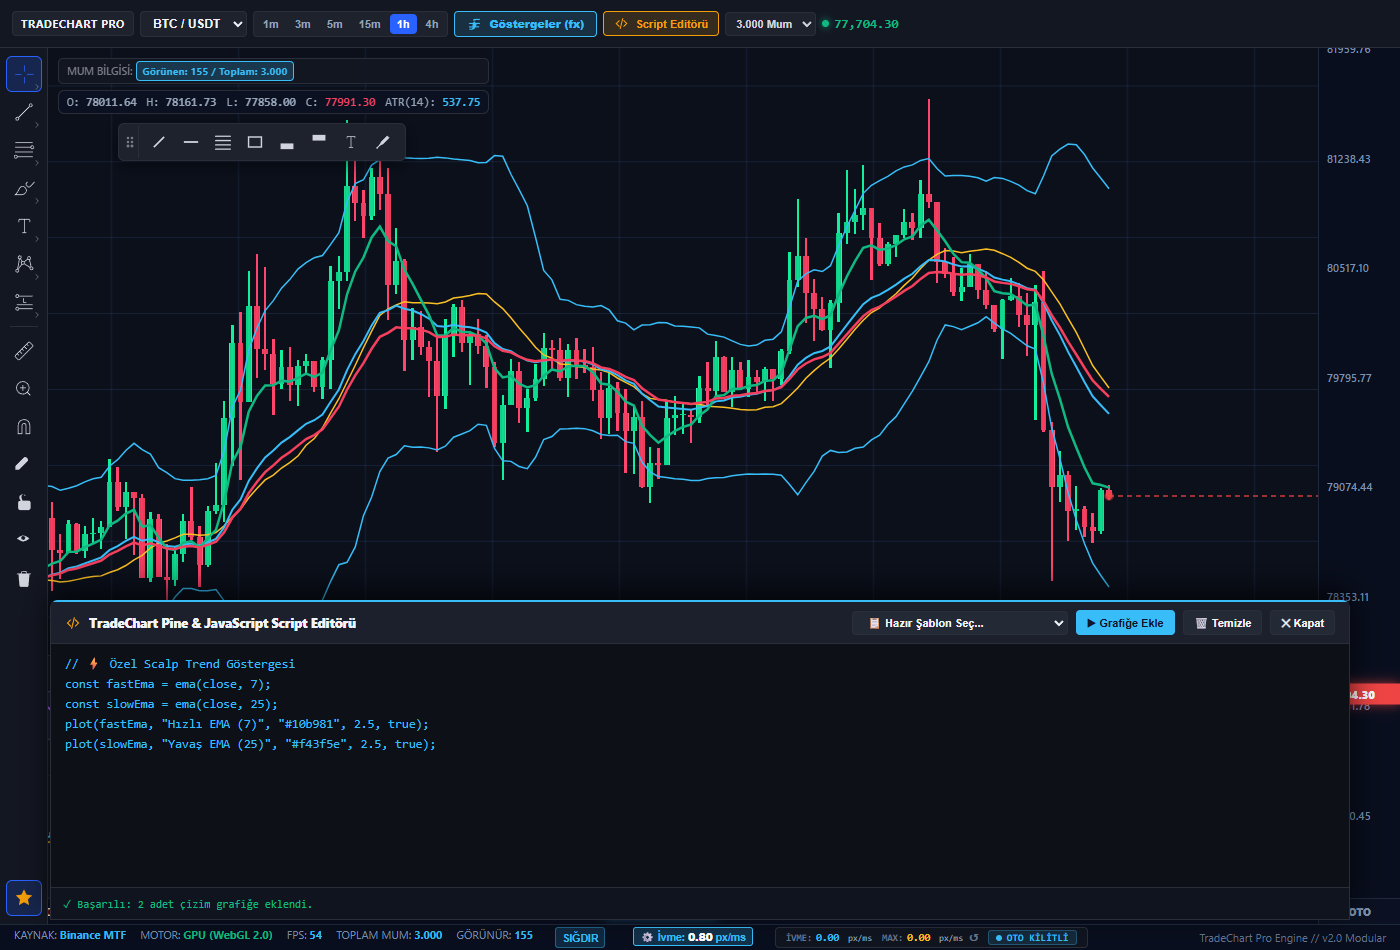
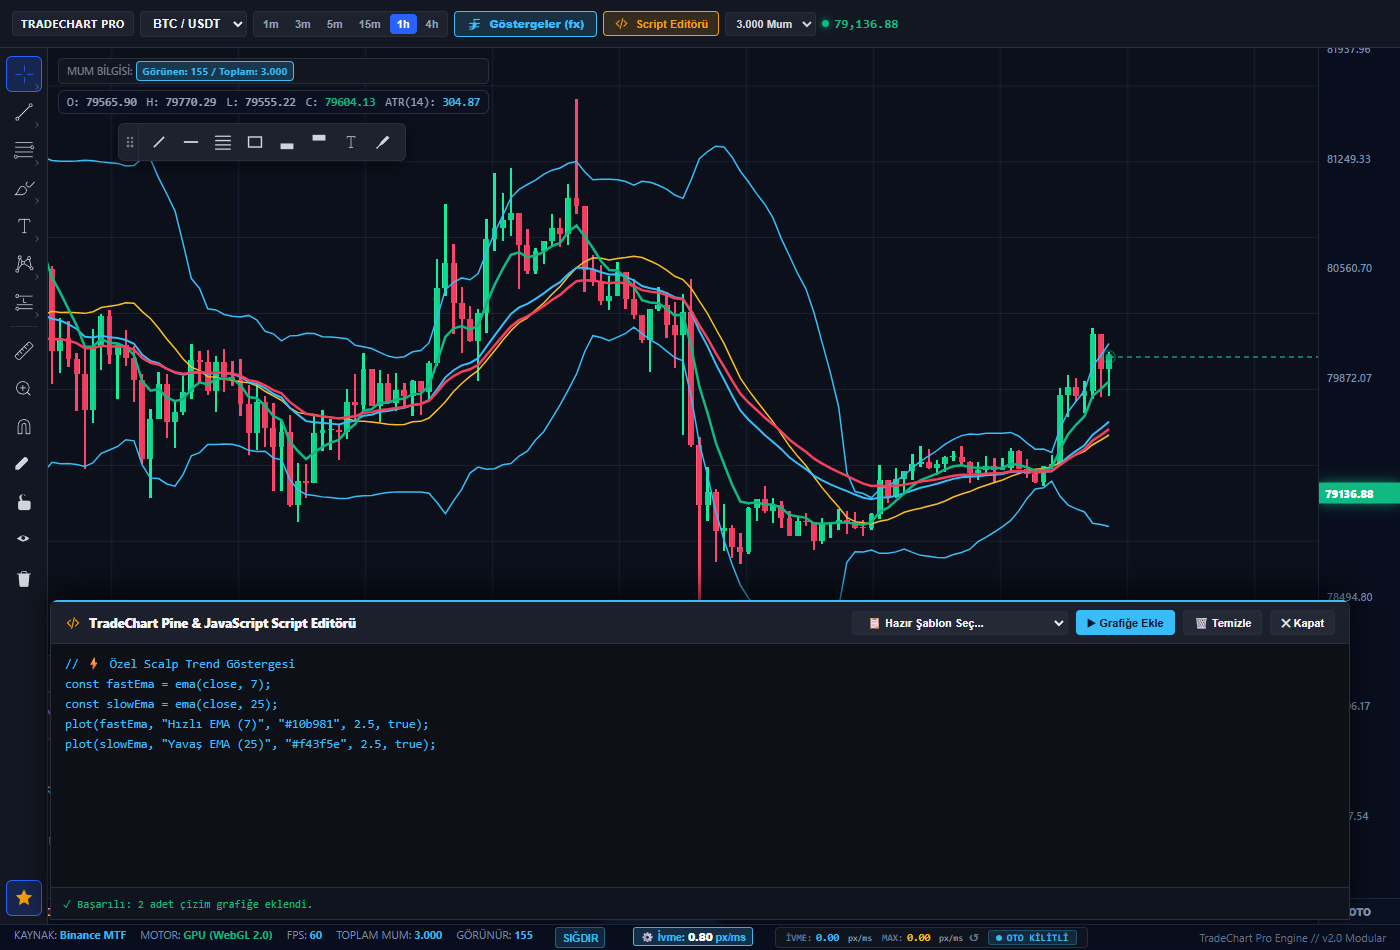
fix: Allow real-time dynamic vertical unlock during continuous mouse drag when velocity falls below threshold

diff --git a/scripts/update_dynamic_axis_unlock.js b/scripts/update_dynamic_axis_unlock.js
@@ -1,0 +1,100 @@
+import fs from 'fs';
+
+let content = fs.readFileSync('indikator_sablonu.html', 'utf8');
+
+const targetChunk = `                // 🎯 İVMEYE VE YÖNE GÖRE KUSURSUZ KİLİTLEME:
+                const isFastHorizontalSwipe = (absVx >= velocityThreshold && absVx >= absVy * 1.15);
+
+                if (isFastHorizontalSwipe) {
+                    // ⚡ EŞİK AŞILDI & OTO KİLİT AKTİF
+                    dragAxisLocked = 'horizontal';
+                    isAutoPriceScale = true;
+                    updateOtoButtonState();
+
+                    origPriceOffset = 0;
+                    priceOffset = 0;
+                    chartDragStartY = e.clientY;
+
+                    if (alertBadge) {
+                        alertBadge.className = 'hud-status-badge alert-locked';
+                        alertText.innerText = \`⚡ EŞİK AŞILDI (\${absVx.toFixed(2)} ≥ \${velocityThreshold.toFixed(2)})\`;
+                    }
+                    if (livePillElem) {
+                        livePillElem.innerText = 'OTO KİLİTLENDİ';
+                        livePillElem.className = 'status-pill locked';
+                    }
+                } else if (dragAxisLocked !== 'horizontal' && (Math.abs(e.clientY - chartDragStartY) > 4 && absVy > absVx * 0.85 && absVy > 0.04)) {
+                    dragAxisLocked = 'vertical';
+                    isAutoPriceScale = false;
+                    updateOtoButtonState();
+                    if (alertBadge) {
+                        alertBadge.className = 'hud-status-badge free';
+                        alertText.innerText = 'MANUEL SERBEST';
+                    }
+                    if (livePillElem) {
+                        livePillElem.innerText = 'MANUEL SERBEST';
+                        livePillElem.className = 'status-pill free';
+                    }
+                } else {
+                    if (alertBadge) {
+                        alertBadge.className = 'hud-status-badge free';
+                        alertText.innerText = isAutoPriceScale ? 'OTO KİLİTLİ' : 'MANUEL SERBEST';
+                    }
+                    if (livePillElem) {
+                        livePillElem.innerText = isAutoPriceScale ? 'OTO KİLİTLENDİ' : 'MANUEL SERBEST';
+                        livePillElem.className = isAutoPriceScale ? 'status-pill locked' : 'status-pill free';
+                    }
+                }`;
+
+const replacementChunk = `                // 🎯 İVMEYE VE YÖNE GÖRE DİNAMİK KİLİTLEME VE ÇÖZME (Continuous Gesture Dynamic Axis Lock & Unlock):
+                const isFastHorizontalSwipe = (absVx >= velocityThreshold && absVx >= absVy * 1.15);
+
+                if (isFastHorizontalSwipe) {
+                    // ⚡ EŞİK AŞILDI & OTO KİLİT AKTİF
+                    dragAxisLocked = 'horizontal';
+                    isAutoPriceScale = true;
+                    updateOtoButtonState();
+
+                    origPriceOffset = 0;
+                    priceOffset = 0;
+                    chartDragStartY = e.clientY;
+
+                    if (alertBadge) {
+                        alertBadge.className = 'hud-status-badge alert-locked';
+                        alertText.innerText = \`⚡ EŞİK AŞILDI (\${absVx.toFixed(2)} ≥ \${velocityThreshold.toFixed(2)})\`;
+                    }
+                    if (livePillElem) {
+                        livePillElem.innerText = 'OTO KİLİTLENDİ';
+                        livePillElem.className = 'status-pill locked';
+                    }
+                } else {
+                    // 🔓 HIZ EŞİK ALTINA İNDİĞİNDE:
+                    // Kullanıcı fareyi bırakmadan basılı tutmaya devam etse bile, hız eşiğin altına indiği an
+                    // dikey hareket algılanır algılanmaz kilit anında çözülür ve serbest dikey kaydırmaya izin verilir!
+                    if (alertBadge) {
+                        alertBadge.className = 'hud-status-badge free';
+                    }
+
+                    const isVerticalIntent = Math.abs(e.clientY - chartDragStartY) > 3 || (absVy > 0.03 && absVy > absVx * 0.5);
+
+                    if (isVerticalIntent && isAutoPriceScale) {
+                        // OTO KİLİTTEN MANUEL DİKEY SÜRÜKLEMEYE KESİNTİSİZ GEÇİŞ
+                        isAutoPriceScale = false;
+                        dragAxisLocked = 'vertical';
+                        updateOtoButtonState();
+                        origPriceOffset = priceOffset;
+                        chartDragStartY = e.clientY;
+                    }
+
+                    if (alertText) {
+                        alertText.innerText = isAutoPriceScale ? 'OTO KİLİTLİ' : 'MANUEL SERBEST';
+                    }
+                    if (livePillElem) {
+                        livePillElem.innerText = isAutoPriceScale ? 'OTO KİLİTLENDİ' : 'MANUEL SERBEST';
+                        livePillElem.className = isAutoPriceScale ? 'status-pill locked' : 'status-pill free';
+                    }
+                }`;
+
+content = content.replace(targetChunk, replacementChunk);
+fs.writeFileSync('indikator_sablonu.html', content, 'utf8');
+console.log('Successfully updated dynamic axis unlock in indikator_sablonu.html!');

diff --git a/scripts/test_continuous_drag_unlock.js b/scripts/test_continuous_drag_unlock.js
@@ -1,0 +1,80 @@
+import { chromium } from 'playwright';
+
+async function testContinuousDragUnlock() {
+    console.log('--- Testing Continuous Drag Axis Lock & Real-Time Dynamic Unlock ---');
+    const browser = await chromium.launch({
+        headless: true,
+        args: ['--enable-webgl', '--enable-gpu', '--ignore-gpu-blocklist', '--use-gl=angle']
+    });
+    const page = await browser.newPage({ viewport: { width: 1400, height: 900 } });
+
+    await page.goto('http://localhost:5173');
+    await page.waitForTimeout(2000);
+
+    const canvasBox = await page.locator('#canvas-container').boundingBox();
+    if (!canvasBox) throw new Error('Canvas container not found');
+
+    const startX = canvasBox.x + 800;
+    const startY = canvasBox.y + 400;
+
+    console.log('1. Starting mouse drag at:', { startX, startY });
+    await page.mouse.move(startX, startY);
+    await page.mouse.down();
+    await page.waitForTimeout(50);
+
+    // 2. Perform fast horizontal swipe (high velocity to trigger threshold exceed)
+    console.log('2. Performing fast horizontal swipe to trigger threshold exceed...');
+    for (let step = 1; step <= 8; step++) {
+        const curX = startX - (step * 70); // 560px in ~40ms -> ~14 px/ms
+        await page.mouse.move(curX, startY);
+        await page.waitForTimeout(5);
+    }
+
+    const stateAfterFastSwipe = await page.evaluate(() => ({
+        isAutoPriceScale: window.isAutoPriceScale,
+        hudAlertText: document.getElementById('hud-alert-text')?.innerText,
+        hudBadgeClass: document.getElementById('hud-alert-badge')?.className
+    }));
+    console.log('State after fast swipe:', stateAfterFastSwipe);
+
+    // 3. WITHOUT RELEASING MOUSE, pause (velocity drops) and drag vertically!
+    console.log('3. Without releasing mouse button, slowing down and dragging vertically...');
+    await page.waitForTimeout(200); // velocity settles to 0
+
+    const currentX = startX - 560;
+    for (let step = 1; step <= 10; step++) {
+        const curY = startY - (step * 15); // moving up by 150px
+        await page.mouse.move(currentX, curY);
+        await page.waitForTimeout(20);
+    }
+
+    const stateAfterVerticalDrag = await page.evaluate(() => ({
+        isAutoPriceScale: window.isAutoPriceScale,
+        priceOffset: window.priceOffset,
+        hudAlertText: document.getElementById('hud-alert-text')?.innerText,
+        hudBadgeClass: document.getElementById('hud-alert-badge')?.className
+    }));
+    console.log('State after continuous vertical drag (same mouse-down gesture):', stateAfterVerticalDrag);
+
+    // 4. Release mouse
+    await page.mouse.up();
+    await page.waitForTimeout(200);
+
+    await page.screenshot({ path: 'scripts/continuous_drag_unlock_screenshot.png' });
+    console.log('Screenshot saved to scripts/continuous_drag_unlock_screenshot.png');
+
+    await browser.close();
+
+    if (stateAfterFastSwipe.isAutoPriceScale === true &&
+        stateAfterVerticalDrag.isAutoPriceScale === false &&
+        stateAfterVerticalDrag.priceOffset !== 0) {
+        console.log('\n--- SUCCESS: Dynamic Axis Unlock during continuous mouse drag verified! ---');
+    } else {
+        throw new Error(`Test failed! Fast swipe: ${JSON.stringify(stateAfterFastSwipe)}, Vertical drag: ${JSON.stringify(stateAfterVerticalDrag)}`);
+    }
+}
+
+testContinuousDragUnlock().catch(err => {
+    console.error(err);
+    process.exit(1);
+});

diff --git a/index.html b/index.html
@@ -4801,6 +4801,14 @@
         let origPriceOffset = 0;
         let isAutoPriceScale = true; // 🌟 Otomatik Fiyat Ölçekleme (OTO Modu)
         let dragAxisLocked = null; // 'horizontal' | 'vertical' | null
+        Object.defineProperty(window, 'isAutoPriceScale', {
+            get() { return isAutoPriceScale; },
+            set(v) { isAutoPriceScale = v; }
+        });
+        Object.defineProperty(window, 'priceOffset', {
+            get() { return priceOffset; },
+            set(v) { priceOffset = v; }
+        });
 
         
         // 🚀 İVME EŞİK VE KALİBRASYON YÖNETİMİ
@@ -5033,7 +5041,7 @@
                 const alertText = document.getElementById('hud-alert-text');
                 const livePillElem = document.getElementById('live-status-pill');
 
-                // 🎯 İVMEYE VE YÖNE GÖRE KUSURSUZ KİLİTLEME:
+                // 🎯 İVMEYE VE YÖNE GÖRE DİNAMİK KİLİTLEME VE ÇÖZME (Continuous Gesture Dynamic Axis Lock & Unlock):
                 const isFastHorizontalSwipe = (absVx >= velocityThreshold && absVx >= absVy * 1.15);
 
                 if (isFastHorizontalSwipe) {
@@ -5054,21 +5062,26 @@
                         livePillElem.innerText = 'OTO KİLİTLENDİ';
                         livePillElem.className = 'status-pill locked';
                     }
-                } else if (dragAxisLocked !== 'horizontal' && (Math.abs(e.clientY - chartDragStartY) > 4 && absVy > absVx * 0.85 && absVy > 0.04)) {
-                    dragAxisLocked = 'vertical';
-                    isAutoPriceScale = false;
-                    updateOtoButtonState();
-                    if (alertBadge) {
-                        alertBadge.className = 'hud-status-badge free';
-                        alertText.innerText = 'MANUEL SERBEST';
-                    }
-                    if (livePillElem) {
-                        livePillElem.innerText = 'MANUEL SERBEST';
-                        livePillElem.className = 'status-pill free';
-                    }
                 } else {
+                    // 🔓 HIZ EŞİK ALTINA İNDİĞİNDE:
+                    // Kullanıcı fareyi bırakmadan basılı tutmaya devam etse bile, hız eşiğin altına indiği an
+                    // dikey hareket algılanır algılanmaz kilit anında çözülür ve serbest dikey kaydırmaya izin verilir!
                     if (alertBadge) {
                         alertBadge.className = 'hud-status-badge free';
+                    }
+
+                    const isVerticalIntent = Math.abs(e.clientY - chartDragStartY) > 3 || (absVy > 0.03 && absVy > absVx * 0.5);
+
+                    if (isVerticalIntent && isAutoPriceScale) {
+                        // OTO KİLİTTEN MANUEL DİKEY SÜRÜKLEMEYE KESİNTİSİZ GEÇİŞ
+                        isAutoPriceScale = false;
+                        dragAxisLocked = 'vertical';
+                        updateOtoButtonState();
+                        origPriceOffset = priceOffset;
+                        chartDragStartY = e.clientY;
+                    }
+
+                    if (alertText) {
                         alertText.innerText = isAutoPriceScale ? 'OTO KİLİTLİ' : 'MANUEL SERBEST';
                     }
                     if (livePillElem) {

diff --git a/indikator_sablonu.html b/indikator_sablonu.html
@@ -4801,6 +4801,14 @@
         let origPriceOffset = 0;
         let isAutoPriceScale = true; // 🌟 Otomatik Fiyat Ölçekleme (OTO Modu)
         let dragAxisLocked = null; // 'horizontal' | 'vertical' | null
+        Object.defineProperty(window, 'isAutoPriceScale', {
+            get() { return isAutoPriceScale; },
+            set(v) { isAutoPriceScale = v; }
+        });
+        Object.defineProperty(window, 'priceOffset', {
+            get() { return priceOffset; },
+            set(v) { priceOffset = v; }
+        });
 
         
         // 🚀 İVME EŞİK VE KALİBRASYON YÖNETİMİ
@@ -5033,7 +5041,7 @@
                 const alertText = document.getElementById('hud-alert-text');
                 const livePillElem = document.getElementById('live-status-pill');
 
-                // 🎯 İVMEYE VE YÖNE GÖRE KUSURSUZ KİLİTLEME:
+                // 🎯 İVMEYE VE YÖNE GÖRE DİNAMİK KİLİTLEME VE ÇÖZME (Continuous Gesture Dynamic Axis Lock & Unlock):
                 const isFastHorizontalSwipe = (absVx >= velocityThreshold && absVx >= absVy * 1.15);
 
                 if (isFastHorizontalSwipe) {
@@ -5054,21 +5062,26 @@
                         livePillElem.innerText = 'OTO KİLİTLENDİ';
                         livePillElem.className = 'status-pill locked';
                     }
-                } else if (dragAxisLocked !== 'horizontal' && (Math.abs(e.clientY - chartDragStartY) > 4 && absVy > absVx * 0.85 && absVy > 0.04)) {
-                    dragAxisLocked = 'vertical';
-                    isAutoPriceScale = false;
-                    updateOtoButtonState();
-                    if (alertBadge) {
-                        alertBadge.className = 'hud-status-badge free';
-                        alertText.innerText = 'MANUEL SERBEST';
-                    }
-                    if (livePillElem) {
-                        livePillElem.innerText = 'MANUEL SERBEST';
-                        livePillElem.className = 'status-pill free';
-                    }
                 } else {
+                    // 🔓 HIZ EŞİK ALTINA İNDİĞİNDE:
+                    // Kullanıcı fareyi bırakmadan basılı tutmaya devam etse bile, hız eşiğin altına indiği an
+                    // dikey hareket algılanır algılanmaz kilit anında çözülür ve serbest dikey kaydırmaya izin verilir!
                     if (alertBadge) {
                         alertBadge.className = 'hud-status-badge free';
+                    }
+
+                    const isVerticalIntent = Math.abs(e.clientY - chartDragStartY) > 3 || (absVy > 0.03 && absVy > absVx * 0.5);
+
+                    if (isVerticalIntent && isAutoPriceScale) {
+                        // OTO KİLİTTEN MANUEL DİKEY SÜRÜKLEMEYE KESİNTİSİZ GEÇİŞ
+                        isAutoPriceScale = false;
+                        dragAxisLocked = 'vertical';
+                        updateOtoButtonState();
+                        origPriceOffset = priceOffset;
+                        chartDragStartY = e.clientY;
+                    }
+
+                    if (alertText) {
                         alertText.innerText = isAutoPriceScale ? 'OTO KİLİTLİ' : 'MANUEL SERBEST';
                     }
                     if (livePillElem) {

diff --git a/scripts/expose_scale_props.js b/scripts/expose_scale_props.js
@@ -1,0 +1,21 @@
+import fs from 'fs';
+
+let content = fs.readFileSync('indikator_sablonu.html', 'utf8');
+
+const target = `        let isAutoPriceScale = true; // 🌟 Otomatik Fiyat Ölçekleme (OTO Modu)
+        let dragAxisLocked = null; // 'horizontal' | 'vertical' | null`;
+
+const replacement = `        let isAutoPriceScale = true; // 🌟 Otomatik Fiyat Ölçekleme (OTO Modu)
+        let dragAxisLocked = null; // 'horizontal' | 'vertical' | null
+        Object.defineProperty(window, 'isAutoPriceScale', {
+            get() { return isAutoPriceScale; },
+            set(v) { isAutoPriceScale = v; }
+        });
+        Object.defineProperty(window, 'priceOffset', {
+            get() { return priceOffset; },
+            set(v) { priceOffset = v; }
+        });`;
+
+content = content.replace(target, replacement);
+fs.writeFileSync('indikator_sablonu.html', content, 'utf8');
+console.log('Exposed window getters/setters for isAutoPriceScale and priceOffset!');

diff --git a/scripts/find_pan_lines.js b/scripts/find_pan_lines.js
@@ -1,0 +1,10 @@
+import fs from 'fs';
+
+let content = fs.readFileSync('indikator_sablonu.html', 'utf8');
+const lines = content.split('\n');
+
+for (let i = 0; i < lines.length; i++) {
+    if (lines[i].includes('startPan') || lines[i].includes('velocityHistory') || lines[i].includes('isAutoPriceScale') || lines[i].includes('velocityThreshold') || lines[i].includes('hud-alert-badge')) {
+        console.log(`L${i+1}: ${lines[i].trim()}`);
+    }
+}

diff --git a/scripts/check_keywords.js b/scripts/check_keywords.js
@@ -1,0 +1,10 @@
+import fs from 'fs';
+
+let content = fs.readFileSync('indikator_sablonu.html', 'utf8');
+console.log('File length:', content.length);
+
+const keywords = ['velocity', 'Threshold', 'autoPrice', 'isAutoPriceScale', 'startPan', 'isPanning', 'onPan'];
+for (const kw of keywords) {
+    const count = (content.match(new RegExp(kw, 'gi')) || []).length;
+    console.log(`${kw}: ${count} matches`);
+}

diff --git a/scripts/find_drag_locked.js b/scripts/find_drag_locked.js
@@ -1,0 +1,10 @@
+import fs from 'fs';
+
+let content = fs.readFileSync('indikator_sablonu.html', 'utf8');
+const lines = content.split('\n');
+
+for (let i = 0; i < lines.length; i++) {
+    if (lines[i].includes('dragAxisLocked')) {
+        console.log(`L${i+1}: ${lines[i].trim()}`);
+    }
+}
